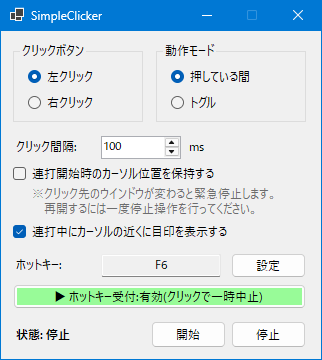
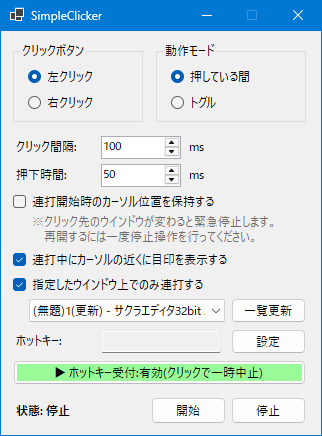
[docs] update README

Changed region(s): [[0.0, 0.0, 1.0, 1.0], [0.6522, 0.7028, 0.6832, 0.7333]]

diff --git a/README.md b/README.md
@@ -12,7 +12,9 @@
   - 押している間 — ホットキーを押している間だけ連打
   - トグル — ホットキーを押すたびに開始 / 停止を切り替え
 - **ホットキーのキャプチャ設定** — 「設定」ボタンを押してキーを入力するだけで割り当て。マウスのサイドボタン(XButton1 / XButton2)にも対応
+- **修飾キーとの組み合わせ** — `Ctrl+A`、`Shift+F6`、`Shift+サイドボタン1` のように Ctrl / Shift / Alt と組み合わせて割り当て可能。修飾キー単体(Shift のみ等)の割り当てもできます
 - **開始 / 停止ボタン** — ホットキーを使わずに操作可能
+- **対象ウインドウの限定**(任意)— 連打を特定のウインドウ上に限定できます。カーソル(位置保持中は記憶位置)が対象ウインドウから外れると自動停止します。ウインドウ一覧は「更新」ボタンで再取得でき、前回の対象はタイトル一致で復元されます
 - **カーソル位置の保持**(任意)— 連打開始時のカーソル位置を記憶し、連打中はその位置でクリックし続けます
 - **緊急停止** — カーソル位置保持中にクリック先のウインドウが変わる(閉じる・別ウインドウが手前に来るなど)と自動停止します。再開するには一度停止操作(停止ボタン、またはホットキーによる停止)が必要です
 - **連打中の目印表示**(任意)— 連打中はカーソルの近くに赤い目印を表示(クリック透過)
@@ -23,6 +25,8 @@
 1. `SimpleClicker.exe` を起動します
 2. クリックするボタン(左 / 右)、クリック間隔、動作モードを設定します
 3. ホットキーを変更する場合は「設定」ボタンを押し、割り当てたいキーまたはマウスのサイドボタンを押します(既定: `F6`)
+   - Ctrl / Shift / Alt を押しながらキー(またはサイドボタン)を押すと組み合わせで割り当てられます
+   - 修飾キーだけを押して離すと、その修飾キー単体が割り当てられます
 4. ホットキーまたは「開始」ボタンで連打を開始します
    - 押している間モード: ホットキーを押している間だけ連打します
    - トグルモード: ホットキーを押すたびに開始 / 停止が切り替わります
